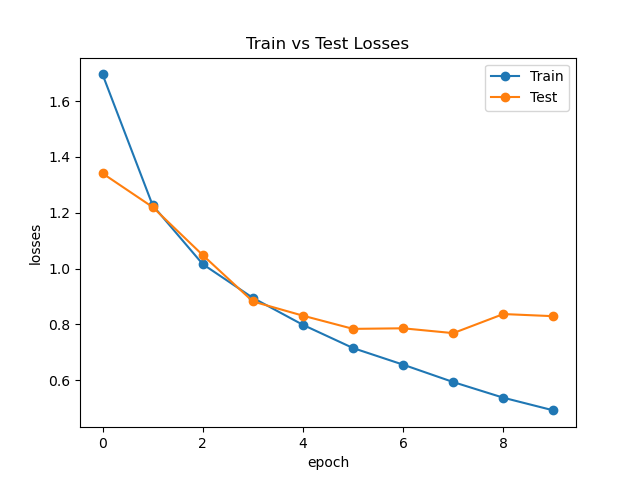
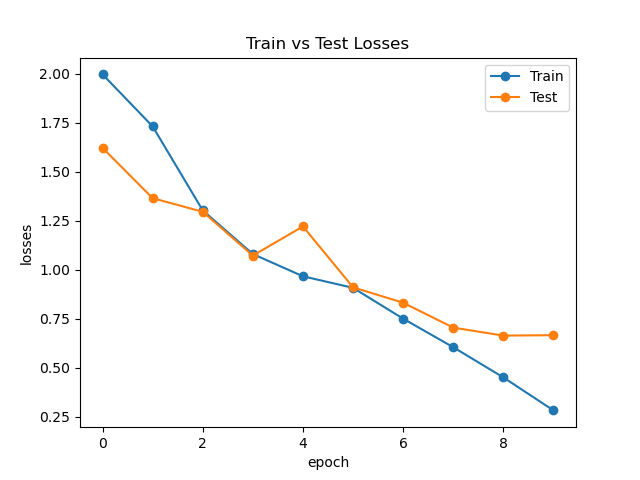
Learning Rate Scheduler Added

diff --git a/optimizer.py b/optimizer.py
@@ -1,5 +1,5 @@
 import torch
-from torch.optim.lr_scheduler import CosineAnnealingLR, StepLR
+from torch.optim.lr_scheduler import CosineAnnealingLR, StepLR, CyclicLR
 
 def optim(model_name, model, lr):
     if model_name == 'resnet':
@@ -7,7 +7,10 @@ def optim(model_name, model, lr):
         scheduler = CosineAnnealingLR(optimizer, T_max=200)
         return optimizer, scheduler
     if model_name == 'alexnet':
-        """THIS SETTING DOESN'T WORK, IT RESULTS IN NAN"""
         optimizer = torch.optim.SGD(model.parameters(), lr=lr, weight_decay=0.0005, momentum=0.9)
-        scheduler = CosineAnnealingLR(optimizer, T_max=200)
+        scheduler = CyclicLR(optimizer, base_lr=0.001, max_lr=0.1,step_size_up=5,mode="triangular")
+        return optimizer, scheduler
+    if model_name == 'vggnet':
+        optimizer = torch.optim.SGD(model.parameters(), lr=lr, weight_decay=0.0005, momentum=0.9)
+        scheduler = CyclicLR(optimizer, base_lr=0.001, max_lr=0.1,step_size_up=5,mode="triangular")
         return optimizer, scheduler

diff --git a/train_test.py b/train_test.py
@@ -23,7 +23,7 @@ class training:
     def runner(self):
         
         criterion = nn.CrossEntropyLoss()
-        if self.model_name in ['resnet']:
+        if self.model_name in ['resnet', 'vggnet', 'alexnet']:
             optimizer, scheduler = optim(model_name=self.model_name, model=self.model, lr=self.learning_rate)
 
         elif self.optimizer == 'sgd':
@@ -31,7 +31,6 @@ class training:
             scheduler = torch.optim.lr_scheduler.CosineAnnealingLR(optimizer, T_max=200)
         elif self.optimizer == 'adam':
             optimizer = torch.optim.Adam(self.model.parameters(), lr=self.learning_rate)
-            scheduler = torch.optim.lr_scheduler.ExponentialLR(optimizer, gamma=0.1)
         else:
             pass
         

diff --git a/main.py b/main.py
@@ -129,7 +129,7 @@ elif args.model == 'resmlp':
     model = ResMLP(in_channels=input_channel, image_size=config['parameters']['image_resolution'], patch_size=16, 
             n_classes=n_classes, dim=384, depth=12, mlp_dim=384*4).to(device)
 
-print(model)
+#print(model)
 
 print(f'Total Number of Parameters of {args.model.capitalize()} is {round((sum(p.numel() for p in model.parameters()))/1000000, 2)}M')
 trainer = training(model=model, optimizer=config['parameters']['optimizer'], learning_rate=config['parameters']['learning_rate'], 

diff --git a/VGG.py b/VGG.py
@@ -57,7 +57,7 @@ class VGG11(nn.Module):
 
 	def init_weights(self, layer):
 		if type(layer) == nn.Linear or type(layer) == nn.Conv2d:
-			nn.init.xavier_uniform_(layer.weight)
+			nn.init.normal_(layer.weight)
 
 	def forward(self, x):		
 		out = self.layers(x)

diff --git a/README.md b/README.md
@@ -14,29 +14,29 @@ Base Config: {epochs: 10, lr: 0.001, batch_size: 128, img_resolution: 224, optim
 
 I've noticed that Google Colab has 12GB GPU while Kaggle has 16 GB GPU. So in worst case scenario, I've reduced the batch size in accordance to fit the Kaggle GPU. Just to mention, I use RTX2070 8GB.
 
-|CNN Based    | Accuracy | Parameters     | FLOPS | Configuration | Train/Test Loss | Acc. (After Transforms) |
-| :---        |    :----:   | :----:       | :----:       | :----:       |:----:       | ---: |
-| [AlexNet](https://papers.nips.cc/paper/2012/hash/c399862d3b9d6b76c8436e924a68c45b-Abstract.html")| 71.27 | 58.32M | 1.13GFlops || Yes | 71.27 |
-| [VGGNet](https://arxiv.org/abs/1409.1556)   | 75.21 | 128.81M | 7.63GFlops| - | Yes | 75.93 |
-| [Network In Network](https://arxiv.org/abs/1312.4400) | 63.46 | 2.02M | 0.833GFlops | - | Yes | 71.03 |
-| [ResNet](https://arxiv.org/abs/1512.03385)  | 80.51 | 11.18M | 1.82GFlops | - | Yes | 83.39 |
-| [DenseNet-Depth40](https://arxiv.org/abs/1608.06993)   | - | 0.18M | - | Batch_Size = 8 | Yes | 68.25 |
-| [MobileNetV1](https://arxiv.org/abs/1704.04861)   | 81.35 | 3.22M | 0.582GFlops | - | Yes | 81.72 |
-| [MobileNetV2](https://arxiv.org/abs/1801.04381)   | 80.74 | 2.24M | 0.318GFlops | - | Yes | 83.99 |
-| [GoogLeNet](https://arxiv.org/abs/1409.4842)   | 73.62 | 5.98M | 1.59GFlops | - | Yes | 80.28 |
-| [InceptionV3](https://arxiv.org/abs/1512.00567)   | - | - | 209.45GFlops | High Compute Req. | - |
-| [Darknet-53](https://arxiv.org/pdf/1804.02767.pdf)   | - | - | 7.14GFlops | High Compute Req. | - |
-| [Xception](https://arxiv.org/abs/1610.02357)   | 85.9 | 20.83M | 4.63GFlops | Batch_Size = 96 | Yes |
+|CNN Based    | Accuracy | Parameters     | FLOPS | Configuration | Scheduler(LR) |
+| :---        |    :----:   | :----:       | :----:       | :----:       | ---: |
+| [AlexNet](https://papers.nips.cc/paper/2012/hash/c399862d3b9d6b76c8436e924a68c45b-Abstract.html")| 71.27 | 58.32M | 1.13GFlops | - | CyclicLR(79.56) |
+| [VGGNet](https://arxiv.org/abs/1409.1556)   | 75.93 | 128.81M | 7.63GFlops| - | - |
+| [Network In Network](https://arxiv.org/abs/1312.4400) | 71.03 | 2.02M | 0.833GFlops | - | - |
+| [ResNet](https://arxiv.org/abs/1512.03385)  | 83.39 | 11.18M | 1.82GFlops | - | - |
+| [DenseNet-Depth40](https://arxiv.org/abs/1608.06993)   | 68.25 | 0.18M | - | Batch_Size = 8 | - |
+| [MobileNetV1](https://arxiv.org/abs/1704.04861)   | 81.72 | 3.22M | 0.582GFlops | - | - |
+| [MobileNetV2](https://arxiv.org/abs/1801.04381)   | 83.99 | 2.24M | 0.318GFlops | - | - |
+| [GoogLeNet](https://arxiv.org/abs/1409.4842)   | 80.28 | 5.98M | 1.59GFlops | - | - |
+| [InceptionV3](https://arxiv.org/abs/1512.00567)   | - | - | 209.45GFlops | High Compute Req. |
+| [Darknet-53](https://arxiv.org/pdf/1804.02767.pdf)   | - | - | 7.14GFlops | High Compute Req. |
+| [Xception](https://arxiv.org/abs/1610.02357)   | 85.9 | 20.83M | 4.63GFlops | Batch_Size = 96 | - |
 | [ResNeXt](https://arxiv.org/abs/1611.05431)   | - | | 69.41GFlops | High Compute Req. | |
-| [SENet](https://arxiv.org/abs/1709.01507)   | 83.55 | 11.23M | 1.82GFlops | - | Yes | 83.39 |
+| [SENet](https://arxiv.org/abs/1709.01507)   | 83.39 | 11.23M | 1.82GFlops | - | - |
 | [SqueezeNet](https://arxiv.org/abs/1602.07360v4)   | 62.2 | 0.73M | 2.64GFlops | Batch_Size = 64 |
-| [ShuffleNet](https://arxiv.org/abs/1707.01083)   | | | 2.03GFlops | Batch_Size = 32 | Yes |
+| [ShuffleNet](https://arxiv.org/abs/1707.01083)   | | | 2.03GFlops | Batch_Size = 32 | - |
 | [EfficientNet-B0](https://arxiv.org/abs/1905.11946)   | - |4.02M| 0.4GFlops| | |
 | Transformer Based |
 | [ViT](https://arxiv.org/abs/2010.11929)   | - | - | - | - | - |
 | MLP Based |
-| [MLP-Mixer](https://arxiv.org/abs/2105.01601) | 64.98 | 13.63M | - | - | Yes | 68.52 |
-| [ResMLP](https://arxiv.org/abs/2105.03404)| 70.17 | 14.97M | - | - | Yes | 65.5 |
+| [MLP-Mixer](https://arxiv.org/abs/2105.01601) | 68.52 | 13.63M | - | - | - |
+| [ResMLP](https://arxiv.org/abs/2105.03404)| 65.5 | 14.97M | - | - | - |
 
 Note: Marked few cells as high compute required because even with batch_size = 8, the kaggle compute was not enough, 
 if you have any work around or else if something is missing, please do share your inputs in issues. Thanks.
